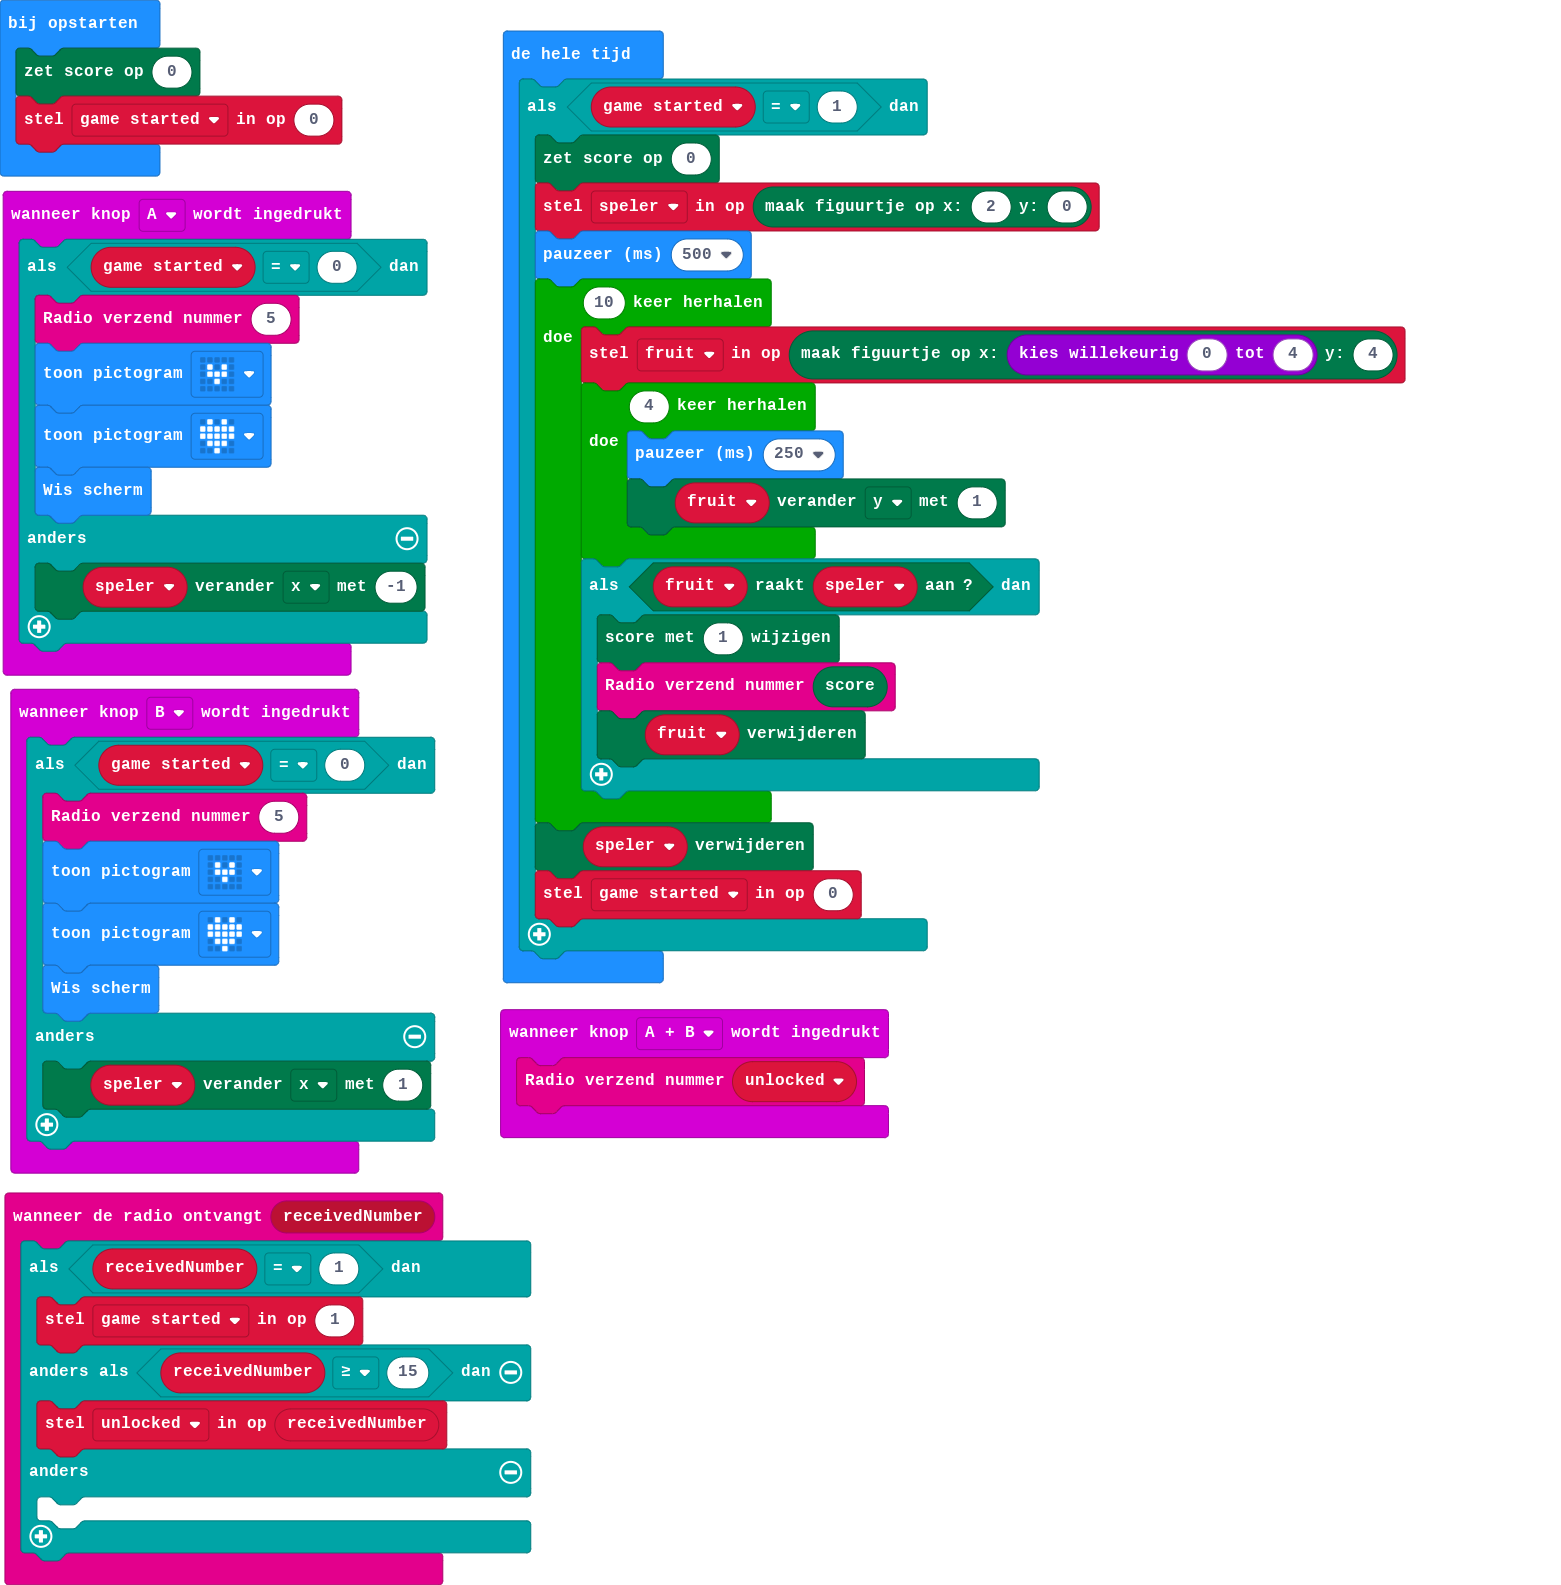
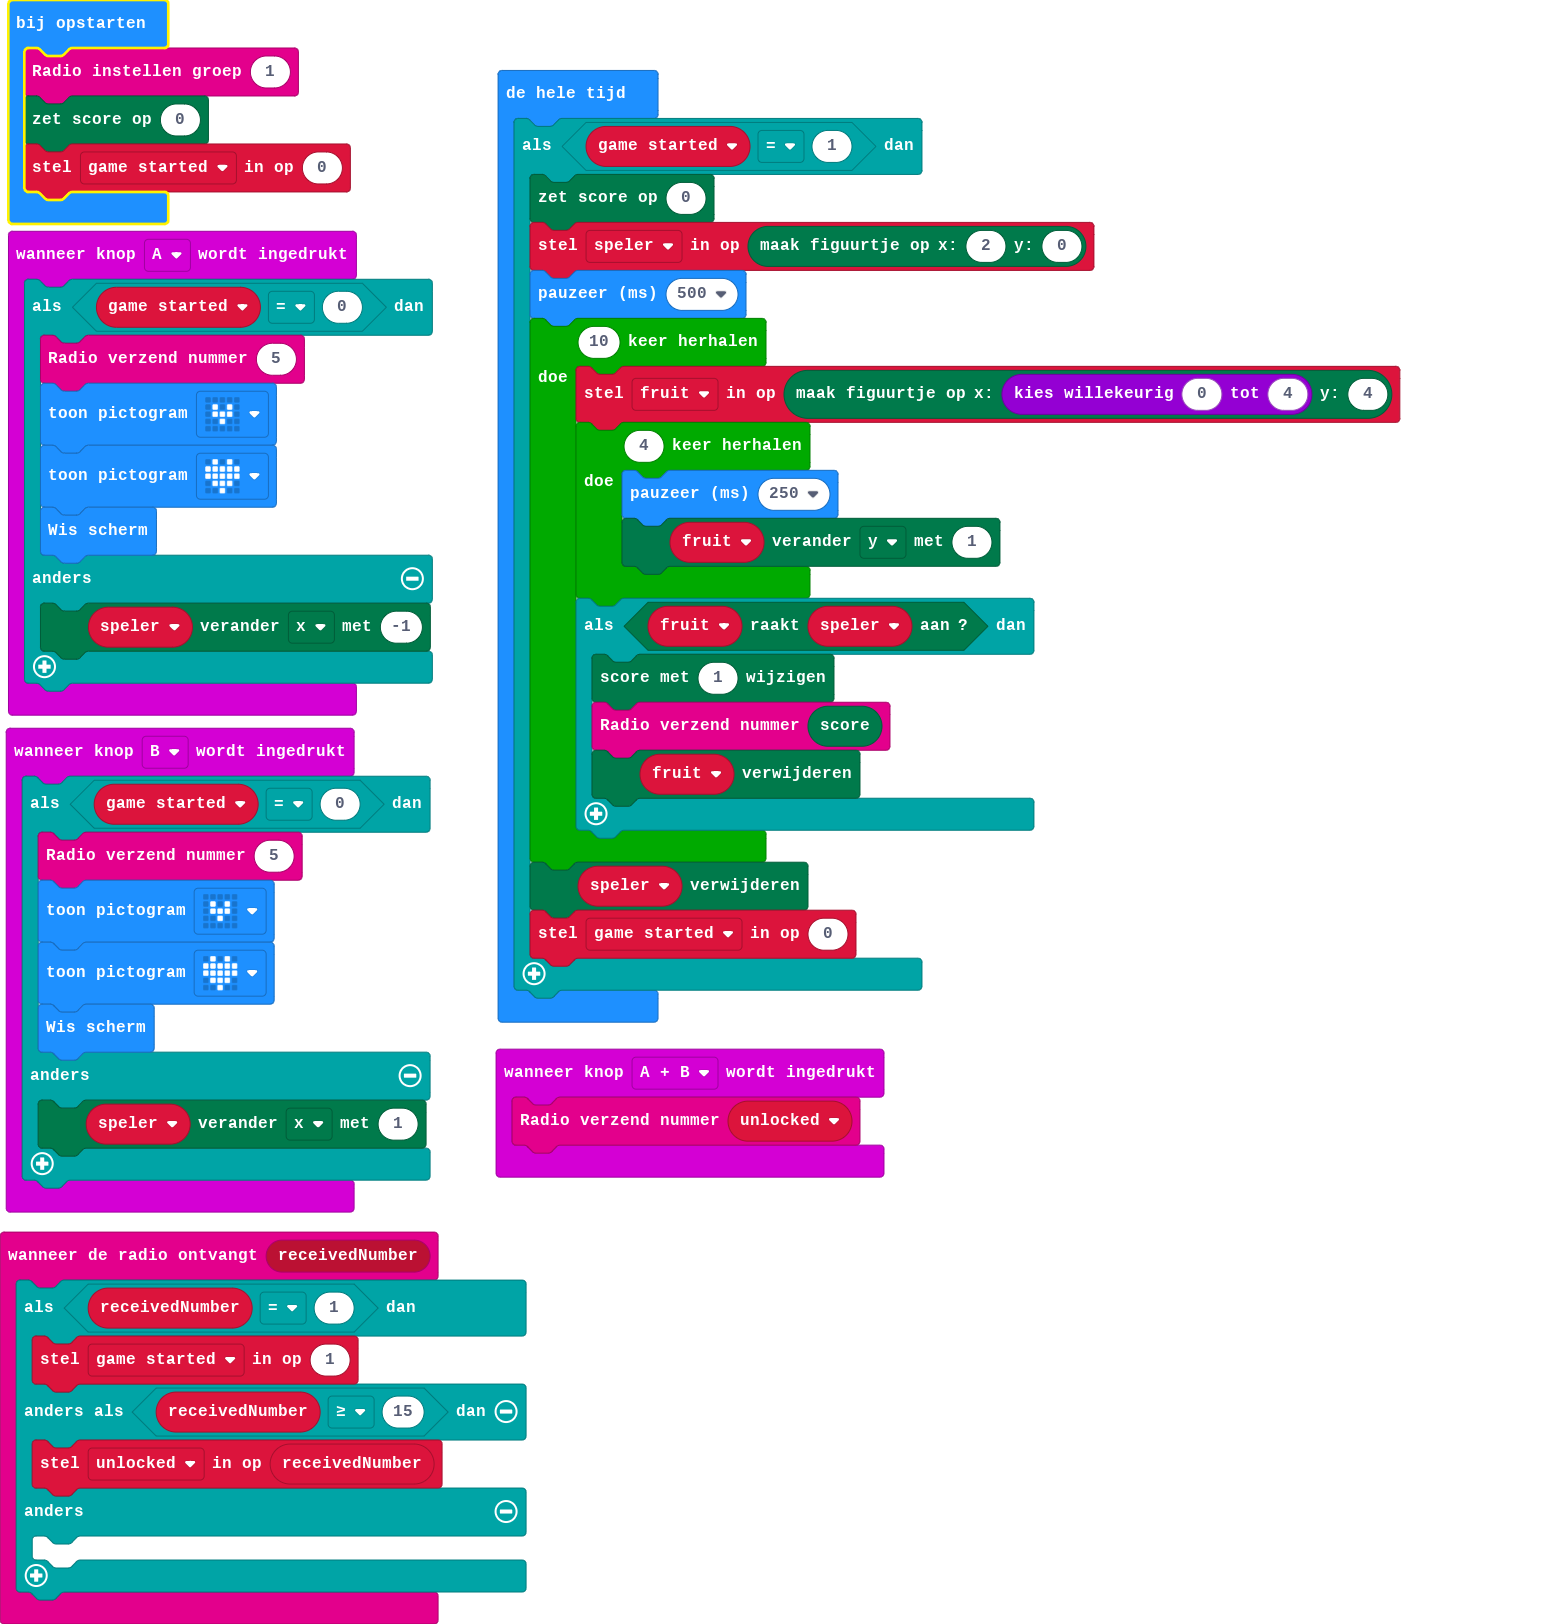
main.blocks, main.ts bijwerken

Changed region(s): [[0.3085, 0.0, 0.9254, 0.742], [0.0, 0.0, 0.3393, 1.0]]

diff --git a/main.ts b/main.ts
@@ -34,6 +34,7 @@ let fruit: game.LedSprite = null
 let speler: game.LedSprite = null
 let unlocked = 0
 let game_started = 0
+radio.setGroup(1)
 game.setScore(0)
 game_started = 0
 basic.forever(function () {
